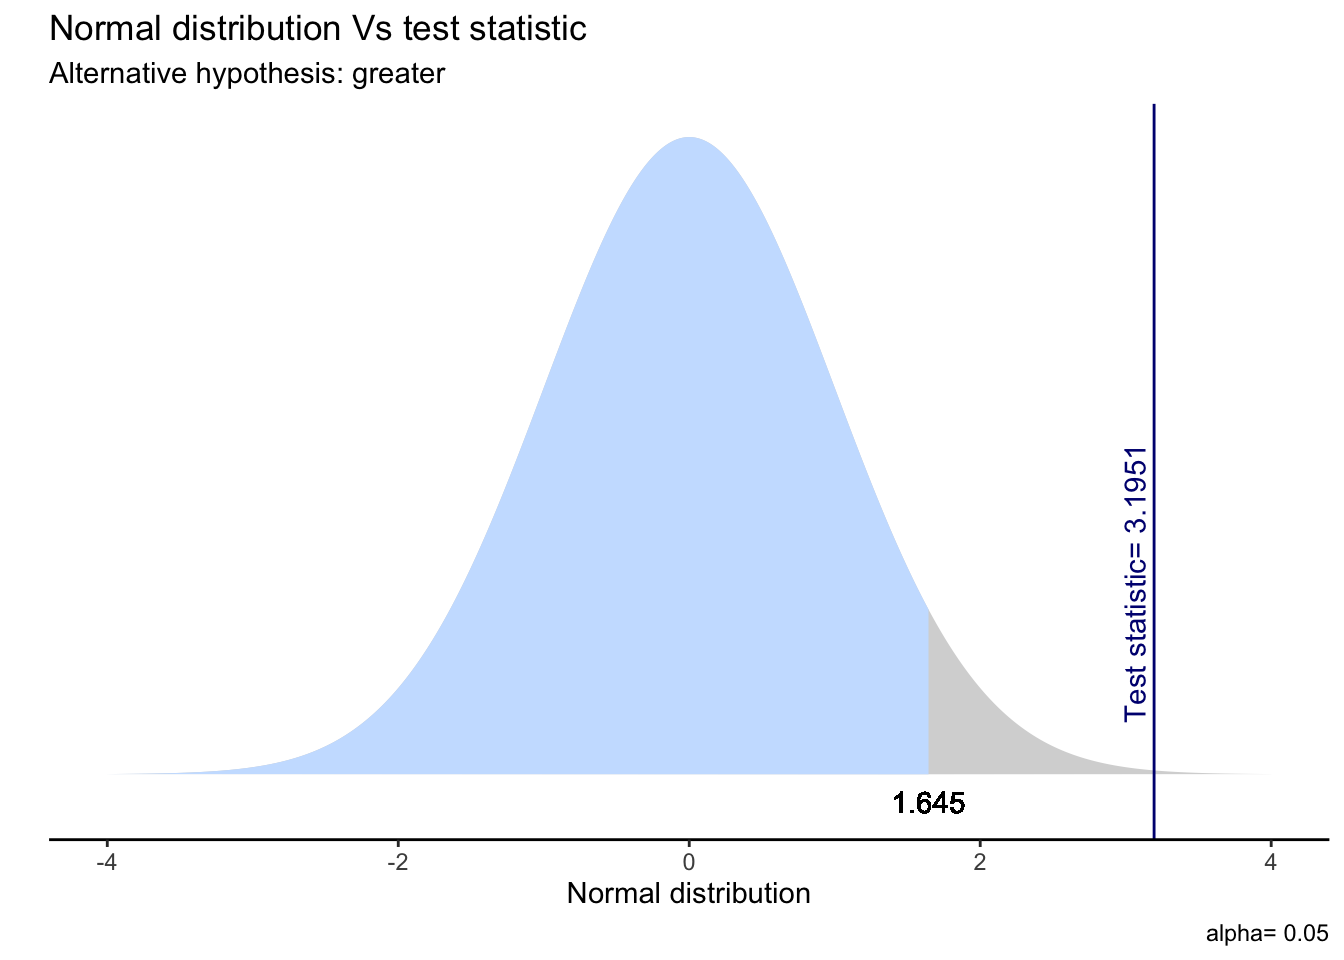
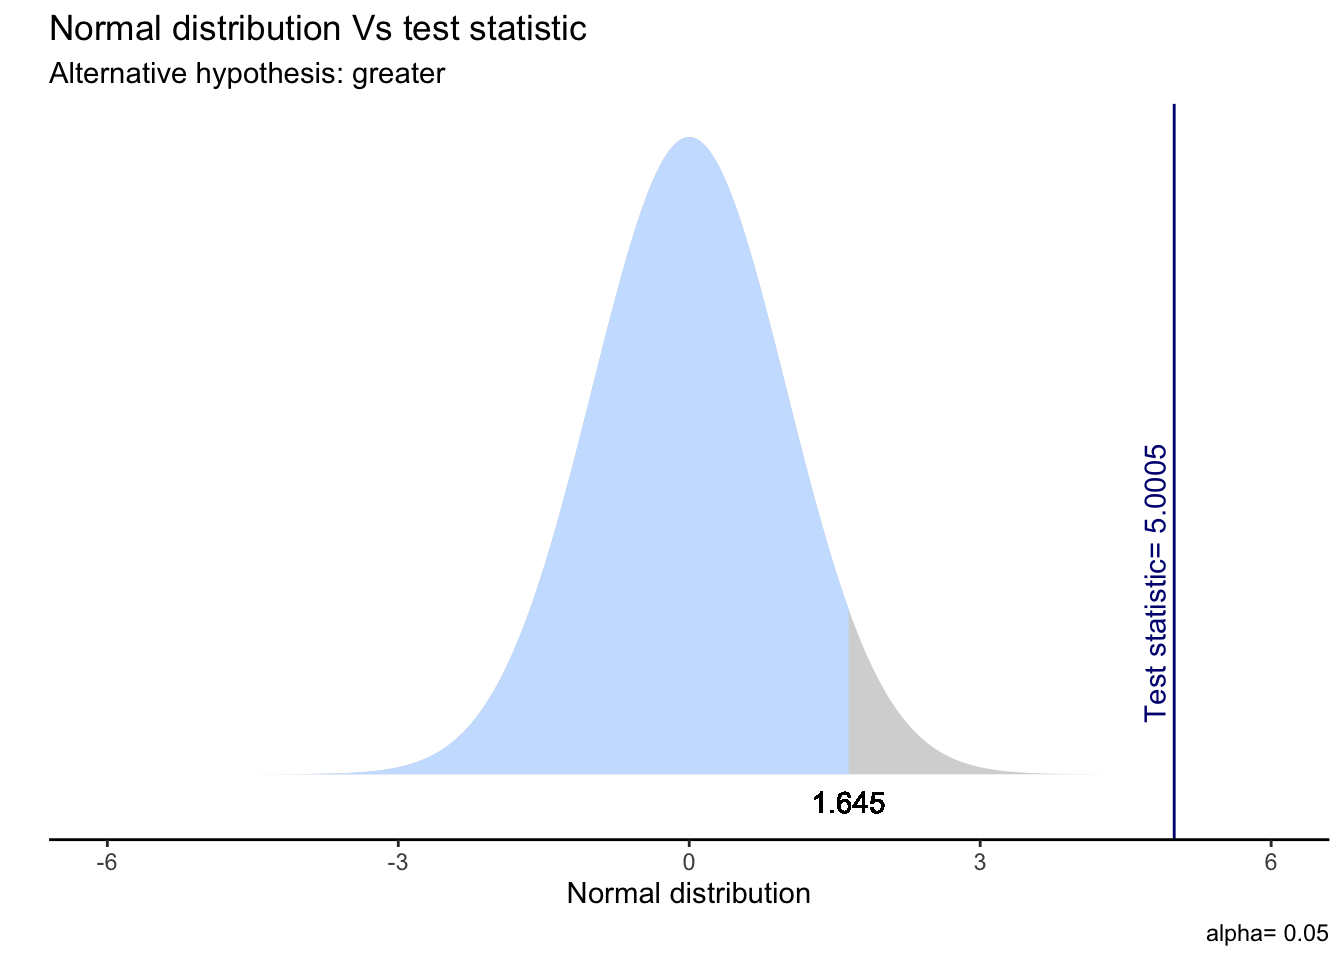
Update practico 2 draft

diff --git a/docs/assignment/02-practico.html b/docs/assignment/02-practico.html
@@ -249,7 +249,7 @@ window.Quarto = {
 <h2 class="anchored" data-anchor-id="cinco-pasos-para-la-inferencia-estadística">Cinco pasos para la inferencia estadística</h2>
 <p><img src="https://correlacional.netlify.app/slides/img/rechazar_meme.png" class="img-fluid"></p>
 <p>En inferencia, las pruebas de hipótesis nos ayudan a determinar si el resultado que obtenemos en nuestra muestra es un efecto real/extensible a la población o un error de muestreo. Aquí recomendamos una lista de cinco pasos lógicos para enfrentarnos a la inferencia estadística:</p>
-<p>En inferencia, las pruebas de hipótesis nos ayudan a determinar si el resultado que obtenemos en nuestra muestra es un efecto real/extensible a la población o un error de muestreo. Aquí recomendamos una lista de cinco pasos lógicos para enfrentarnos a la inferencia estadística:</p>
+<p>En inferencia, las pruebas de hipótesis nos ayudan a determinar si el resultado que obtenemos en nuestra muestra es un efecto real/extensible a la población o un error. Aquí recomendamos una lista de cinco pasos lógicos para enfrentarnos a la inferencia estadística:</p>
 <style>
   table {
     margin-left: auto; /* Ajustamos el margen izquierdo a automático */
@@ -332,6 +332,20 @@ Intrepreta los resultados
 <span id="cb1-8"><a href="#cb1-8" aria-hidden="true" tabindex="-1"></a><span class="fu">options</span>(<span class="at">scipen =</span> <span class="dv">999</span>) <span class="co"># para desactivar notacion cientifica</span></span>
 <span id="cb1-9"><a href="#cb1-9" aria-hidden="true" tabindex="-1"></a><span class="fu">rm</span>(<span class="at">list =</span> <span class="fu">ls</span>()) <span class="co"># para limpiar el entorno de trabajo</span></span></code><button title="Copiar al portapapeles" class="code-copy-button"><i class="bi"></i></button></pre></div>
 </div>
+<div class="callout callout-style-default callout-tip callout-titled">
+<div class="callout-header d-flex align-content-center">
+<div class="callout-icon-container">
+<i class="callout-icon"></i>
+</div>
+<div class="callout-title-container flex-fill">
+Tip
+</div>
+</div>
+<div class="callout-body-container callout-body">
+<p><strong>Los # en el código</strong></p>
+<p>En este código y siguientes aparecen varios #, que son una función de comentarios en R. No son necesarios para que el código funcione, pero son útiles en este caso para poder explicar que función cumple cada sección del código. Todo lo que aparece a la derecha de un # no es leído por el programa.</p>
+</div>
+</div>
 <p>Cargamos los datos directamente desde internet.</p>
 <div class="cell">
 <div class="sourceCode cell-code" id="cb2"><pre class="sourceCode r code-with-copy"><code class="sourceCode r"><span id="cb2-1"><a href="#cb2-1" aria-hidden="true" tabindex="-1"></a><span class="fu">load</span>(<span class="fu">url</span>(<span class="st">"https://github.com/cursos-metodos-facso/datos-ejemplos/raw/main/proc_casen.RData"</span>)) <span class="co">#Cargar base de datos</span></span></code><button title="Copiar al portapapeles" class="code-copy-button"><i class="bi"></i></button></pre></div>
@@ -403,20 +417,6 @@ Prueba de una cola
 <span id="cb7-4"><a href="#cb7-4" aria-hidden="true" tabindex="-1"></a></span>
 <span id="cb7-5"><a href="#cb7-5" aria-hidden="true" tabindex="-1"></a>casen_subset <span class="ot">&lt;-</span> <span class="fu">na.omit</span>(casen_subset) <span class="co"># eliminamos casos perdidos (listwise)</span></span></code><button title="Copiar al portapapeles" class="code-copy-button"><i class="bi"></i></button></pre></div>
 </div>
-<div class="callout callout-style-default callout-tip callout-titled">
-<div class="callout-header d-flex align-content-center">
-<div class="callout-icon-container">
-<i class="callout-icon"></i>
-</div>
-<div class="callout-title-container flex-fill">
-Tip
-</div>
-</div>
-<div class="callout-body-container callout-body">
-<p><strong>Los # en el código</strong></p>
-<p>En este código y siguientes aparecen varios #, que son una función de comentarios en R. No son necesarios para que el código funcione, pero son útiles en este caso para poder explicar que función cumple cada sección del código. Todo lo que aparece a la derecha de un # no es leído por el programa.</p>
-</div>
-</div>
 <p>Generamos tabla para visualizar la distribución de los datos.</p>
 <div class="cell">
 <div class="sourceCode cell-code" id="cb8"><pre class="sourceCode r code-with-copy"><code class="sourceCode r"><span id="cb8-1"><a href="#cb8-1" aria-hidden="true" tabindex="-1"></a>casen_subset <span class="sc">%&gt;%</span> </span>
@@ -438,15 +438,15 @@ Tip
 <tbody>
 <tr class="odd">
 <td style="text-align: right;">1</td>
-<td style="text-align: right;">366</td>
-<td style="text-align: right;">763431.0</td>
-<td style="text-align: right;">904740.0</td>
+<td style="text-align: right;">348</td>
+<td style="text-align: right;">782026.2</td>
+<td style="text-align: right;">828650.1</td>
 </tr>
 <tr class="even">
 <td style="text-align: right;">2</td>
-<td style="text-align: right;">271</td>
-<td style="text-align: right;">582777.1</td>
-<td style="text-align: right;">510153.1</td>
+<td style="text-align: right;">279</td>
+<td style="text-align: right;">518039.5</td>
+<td style="text-align: right;">476502.6</td>
 </tr>
 </tbody>
 </table>
@@ -471,7 +471,7 @@ Tip
 <li><p>Establecer la probabilidad de error <span class="math inline">\(\alpha\)</span> (usualmente 0.05) y obtener valor crítico (teórico) de la prueba correspondiente</p></li>
 <li><p>Cálculo de intervalo de confianza / contraste valores empírico/crítico</p></li>
 </ol>
-<p>Esta secuencia de pasos tiene un sentido pedagógico para poder entender cómo finalmente se llega a interpretar el contraste de hipótesis en el paso 5. Pero en análisis de datos, luego de establecer las hipótesis nos vamos directamente al código que nos permite obtener de una vez toda la información de los pasos 2, 3 y 4.</p>
+<p>Esta secuencia de pasos tiene un sentido pedagógico para poder entender cómo finalmente se llega a interpretar el contraste de hipótesis en el paso 5. Pero en análisis de datos, luego de establecer las hipótesis nos vamos directamente al softwaer que nos permite obtener de una vez toda la información de los pasos 2, 3 y 4.</p>
 <div class="cell">
 <div class="sourceCode cell-code" id="cb9"><pre class="sourceCode r code-with-copy"><code class="sourceCode r"><span id="cb9-1"><a href="#cb9-1" aria-hidden="true" tabindex="-1"></a>test_ej1 <span class="ot">&lt;-</span> <span class="fu">t.test</span>(casen_subset<span class="sc">$</span>ytrabajocor <span class="sc">~</span> casen_subset<span class="sc">$</span>sexo, </span>
 <span id="cb9-2"><a href="#cb9-2" aria-hidden="true" tabindex="-1"></a>                   <span class="at">alternative =</span> <span class="st">"greater"</span>,</span>
@@ -483,13 +483,13 @@ Tip
     Welch Two Sample t-test
 
 data:  casen_subset$ytrabajocor by casen_subset$sexo
-t = 3.1951, df = 596.96, p-value = 0.0007357
+t = 5.0005, df = 571.02, p-value = 0.000000381
 alternative hypothesis: true difference in means between group 1 and group 2 is greater than 0
 95 percent confidence interval:
- 87508.29      Inf
+ 177010.8      Inf
 sample estimates:
 mean in group 1 mean in group 2 
-       763431.0        582777.1 </code></pre>
+       782026.2        518039.5 </code></pre>
 </div>
 </div>
 <p>También podemos visualizarlo en una tabla más amable.</p>
@@ -497,7 +497,7 @@ mean in group 1 mean in group 2
 <div class="sourceCode cell-code" id="cb11"><pre class="sourceCode r code-with-copy"><code class="sourceCode r"><span id="cb11-1"><a href="#cb11-1" aria-hidden="true" tabindex="-1"></a>stats.table <span class="ot">&lt;-</span> <span class="fu">tidy</span>(test_ej1, <span class="at">conf_int =</span> T)</span>
 <span id="cb11-2"><a href="#cb11-2" aria-hidden="true" tabindex="-1"></a><span class="fu">nice_table</span>(stats.table, <span class="at">broom =</span> <span class="st">"t.test"</span>)</span></code><button title="Copiar al portapapeles" class="code-copy-button"><i class="bi"></i></button></pre></div>
 <div class="cell-output-display">
-<div class="tabwid"><style>.cl-0344020c{table-layout:auto;}.cl-03401d5e{font-family:'Times New Roman';font-size:12pt;font-weight:normal;font-style:normal;text-decoration:none;color:rgba(0, 0, 0, 1.00);background-color:transparent;}.cl-03401d72{font-family:'Times New Roman';font-size:12pt;font-weight:normal;font-style:italic;text-decoration:none;color:rgba(0, 0, 0, 1.00);background-color:transparent;}.cl-03401d73{font-family:'Times New Roman';font-size:7.2pt;font-weight:normal;font-style:normal;text-decoration:none;color:rgba(0, 0, 0, 1.00);background-color:transparent;position: relative;top:3.6pt;}.cl-03419d46{margin:0;text-align:center;border-bottom: 0 solid rgba(0, 0, 0, 1.00);border-top: 0 solid rgba(0, 0, 0, 1.00);border-left: 0 solid rgba(0, 0, 0, 1.00);border-right: 0 solid rgba(0, 0, 0, 1.00);padding-bottom:5pt;padding-top:5pt;padding-left:5pt;padding-right:5pt;line-height: 2;background-color:transparent;}.cl-03419d50{margin:0;text-align:left;border-bottom: 0 solid rgba(0, 0, 0, 1.00);border-top: 0 solid rgba(0, 0, 0, 1.00);border-left: 0 solid rgba(0, 0, 0, 1.00);border-right: 0 solid rgba(0, 0, 0, 1.00);padding-bottom:5pt;padding-top:5pt;padding-left:5pt;padding-right:5pt;line-height: 2;background-color:transparent;}.cl-0341a6f6{background-color:transparent;vertical-align: middle;border-bottom: 0.5pt solid rgba(0, 0, 0, 1.00);border-top: 0.5pt solid rgba(0, 0, 0, 1.00);border-left: 0 solid rgba(0, 0, 0, 1.00);border-right: 0 solid rgba(0, 0, 0, 1.00);margin-bottom:0;margin-top:0;margin-left:0;margin-right:0;}.cl-0341a700{background-color:transparent;vertical-align: middle;border-bottom: 0.5pt solid rgba(0, 0, 0, 1.00);border-top: 0 solid rgba(0, 0, 0, 1.00);border-left: 0 solid rgba(0, 0, 0, 1.00);border-right: 0 solid rgba(0, 0, 0, 1.00);margin-bottom:0;margin-top:0;margin-left:0;margin-right:0;}.cl-0341a701{background-color:transparent;vertical-align: middle;border-bottom: 0.5pt solid rgba(0, 0, 0, 1.00);border-top: 0 solid rgba(0, 0, 0, 1.00);border-left: 0 solid rgba(0, 0, 0, 1.00);border-right: 0 solid rgba(0, 0, 0, 1.00);margin-bottom:0;margin-top:0;margin-left:0;margin-right:0;}</style><table data-quarto-disable-processing="true" class="cl-0344020c"><thead><tr style="overflow-wrap:break-word;"><th class="cl-0341a6f6"><p class="cl-03419d46"><span class="cl-03401d5e">Method</span></p></th><th class="cl-0341a6f6"><p class="cl-03419d46"><span class="cl-03401d5e">Alternative</span></p></th><th class="cl-0341a6f6"><p class="cl-03419d46"><span class="cl-03401d5e">Mean 1</span></p></th><th class="cl-0341a6f6"><p class="cl-03419d46"><span class="cl-03401d5e">Mean 2</span></p></th><th class="cl-0341a6f6"><p class="cl-03419d46"><span class="cl-03401d72">M</span><span class="cl-03401d73">1</span><span class="cl-03401d5e"> - </span><span class="cl-03401d72">M</span><span class="cl-03401d73">2</span></p></th><th class="cl-0341a6f6"><p class="cl-03419d46"><span class="cl-03401d72">t</span></p></th><th class="cl-0341a6f6"><p class="cl-03419d46"><span class="cl-03401d72">df</span></p></th><th class="cl-0341a6f6"><p class="cl-03419d46"><span class="cl-03401d72">p</span></p></th><th class="cl-0341a6f6"><p class="cl-03419d46"><span class="cl-03401d5e">95% CI</span></p></th></tr></thead><tbody><tr style="overflow-wrap:break-word;"><td class="cl-0341a700"><p class="cl-03419d50"><span class="cl-03401d5e">Welch Two Sample t-test</span></p></td><td class="cl-0341a701"><p class="cl-03419d46"><span class="cl-03401d5e">greater</span></p></td><td class="cl-0341a701"><p class="cl-03419d46"><span class="cl-03401d5e">763,431.04</span></p></td><td class="cl-0341a701"><p class="cl-03419d46"><span class="cl-03401d5e">582,777.15</span></p></td><td class="cl-0341a701"><p class="cl-03419d46"><span class="cl-03401d5e">180,653.89</span></p></td><td class="cl-0341a701"><p class="cl-03419d46"><span class="cl-03401d5e">3.20</span></p></td><td class="cl-0341a701"><p class="cl-03419d46"><span class="cl-03401d5e">596.96</span></p></td><td class="cl-0341a701"><p class="cl-03419d46"><span class="cl-03401d5e">.001***</span></p></td><td class="cl-0341a701"><p class="cl-03419d46"><span class="cl-03401d5e">[87508.29, Inf]</span></p></td></tr></tbody></table></div>
+<div class="tabwid"><style>.cl-c7e25e5a{table-layout:auto;}.cl-c7dd9b5e{font-family:'Times New Roman';font-size:12pt;font-weight:normal;font-style:normal;text-decoration:none;color:rgba(0, 0, 0, 1.00);background-color:transparent;}.cl-c7dd9b72{font-family:'Times New Roman';font-size:12pt;font-weight:normal;font-style:italic;text-decoration:none;color:rgba(0, 0, 0, 1.00);background-color:transparent;}.cl-c7dd9b73{font-family:'Times New Roman';font-size:7.2pt;font-weight:normal;font-style:normal;text-decoration:none;color:rgba(0, 0, 0, 1.00);background-color:transparent;position: relative;top:3.6pt;}.cl-c7df4418{margin:0;text-align:center;border-bottom: 0 solid rgba(0, 0, 0, 1.00);border-top: 0 solid rgba(0, 0, 0, 1.00);border-left: 0 solid rgba(0, 0, 0, 1.00);border-right: 0 solid rgba(0, 0, 0, 1.00);padding-bottom:5pt;padding-top:5pt;padding-left:5pt;padding-right:5pt;line-height: 2;background-color:transparent;}.cl-c7df4422{margin:0;text-align:left;border-bottom: 0 solid rgba(0, 0, 0, 1.00);border-top: 0 solid rgba(0, 0, 0, 1.00);border-left: 0 solid rgba(0, 0, 0, 1.00);border-right: 0 solid rgba(0, 0, 0, 1.00);padding-bottom:5pt;padding-top:5pt;padding-left:5pt;padding-right:5pt;line-height: 2;background-color:transparent;}.cl-c7df4e40{background-color:transparent;vertical-align: middle;border-bottom: 0.5pt solid rgba(0, 0, 0, 1.00);border-top: 0.5pt solid rgba(0, 0, 0, 1.00);border-left: 0 solid rgba(0, 0, 0, 1.00);border-right: 0 solid rgba(0, 0, 0, 1.00);margin-bottom:0;margin-top:0;margin-left:0;margin-right:0;}.cl-c7df4e41{background-color:transparent;vertical-align: middle;border-bottom: 0.5pt solid rgba(0, 0, 0, 1.00);border-top: 0 solid rgba(0, 0, 0, 1.00);border-left: 0 solid rgba(0, 0, 0, 1.00);border-right: 0 solid rgba(0, 0, 0, 1.00);margin-bottom:0;margin-top:0;margin-left:0;margin-right:0;}.cl-c7df4e42{background-color:transparent;vertical-align: middle;border-bottom: 0.5pt solid rgba(0, 0, 0, 1.00);border-top: 0 solid rgba(0, 0, 0, 1.00);border-left: 0 solid rgba(0, 0, 0, 1.00);border-right: 0 solid rgba(0, 0, 0, 1.00);margin-bottom:0;margin-top:0;margin-left:0;margin-right:0;}</style><table data-quarto-disable-processing="true" class="cl-c7e25e5a"><thead><tr style="overflow-wrap:break-word;"><th class="cl-c7df4e40"><p class="cl-c7df4418"><span class="cl-c7dd9b5e">Method</span></p></th><th class="cl-c7df4e40"><p class="cl-c7df4418"><span class="cl-c7dd9b5e">Alternative</span></p></th><th class="cl-c7df4e40"><p class="cl-c7df4418"><span class="cl-c7dd9b5e">Mean 1</span></p></th><th class="cl-c7df4e40"><p class="cl-c7df4418"><span class="cl-c7dd9b5e">Mean 2</span></p></th><th class="cl-c7df4e40"><p class="cl-c7df4418"><span class="cl-c7dd9b72">M</span><span class="cl-c7dd9b73">1</span><span class="cl-c7dd9b5e"> - </span><span class="cl-c7dd9b72">M</span><span class="cl-c7dd9b73">2</span></p></th><th class="cl-c7df4e40"><p class="cl-c7df4418"><span class="cl-c7dd9b72">t</span></p></th><th class="cl-c7df4e40"><p class="cl-c7df4418"><span class="cl-c7dd9b72">df</span></p></th><th class="cl-c7df4e40"><p class="cl-c7df4418"><span class="cl-c7dd9b72">p</span></p></th><th class="cl-c7df4e40"><p class="cl-c7df4418"><span class="cl-c7dd9b5e">95% CI</span></p></th></tr></thead><tbody><tr style="overflow-wrap:break-word;"><td class="cl-c7df4e41"><p class="cl-c7df4422"><span class="cl-c7dd9b5e">Welch Two Sample t-test</span></p></td><td class="cl-c7df4e42"><p class="cl-c7df4418"><span class="cl-c7dd9b5e">greater</span></p></td><td class="cl-c7df4e42"><p class="cl-c7df4418"><span class="cl-c7dd9b5e">782,026.23</span></p></td><td class="cl-c7df4e42"><p class="cl-c7df4418"><span class="cl-c7dd9b5e">518,039.47</span></p></td><td class="cl-c7df4e42"><p class="cl-c7df4418"><span class="cl-c7dd9b5e">263,986.76</span></p></td><td class="cl-c7df4e42"><p class="cl-c7df4418"><span class="cl-c7dd9b5e">5.00</span></p></td><td class="cl-c7df4e42"><p class="cl-c7df4418"><span class="cl-c7dd9b5e">571.02</span></p></td><td class="cl-c7df4e42"><p class="cl-c7df4418"><span class="cl-c7dd9b5e">&lt; .001***</span></p></td><td class="cl-c7df4e42"><p class="cl-c7df4418"><span class="cl-c7dd9b5e">[177010.78, Inf]</span></p></td></tr></tbody></table></div>
 </div>
 </div>
 <p>Visualicemos la distribución de esta prueba y su zona de rechazo.</p>
@@ -512,8 +512,7 @@ mean in group 1 mean in group 2
 </div>
 </div>
 <p><strong>5. Interpretación</strong></p>
-<p>La prueba T que evalúa la diferencia de medias entre el salario y el sexo sugiere que el efecto es positivo y estadísticamente signficativo (diferencia = 32567.11, t(566.69) = 2.05, p &lt; .05). Por tanto, con un 95% de confianza, rechazamos la <span class="math inline">\(H_{0}\)</span> ya que existe evidencia a favor de nuestra <span class="math inline">\(H_{A}\)</span> respecto a que el salario de los hombres es mayor al salario de las mujeres.</p>
-<p>Además, podemos calcular un intervalo de confianza que acompaña nuestra estimación. En este caso, el IC del 95% es (59.670, Inf), donde “Inf” representa infinito. Esto significa que podemos estar 95% seguros de que <em>la diferencia real entre las medias está por encima de 59.670</em>. En otras palabras, con alta confianza, podemos afirmar que la media del “grupo 1” es significativamente mayor que la del “grupo 2”.</p>
+<p>La prueba T que evalúa la diferencia de medias entre el salario y el sexo sugiere que el efecto es positivo y estadísticamente signficativo (diferencia = 32567.11, t(566.69) = 2.05, p &lt; .05). El valor <span class="math inline">\(p\)</span> indica que la probabilidad de observar una diferencia de esta magnitud, o mayor, bajo la suposición de <span class="math inline">\(H_{0}\)</span> es menor al 5%. Por tanto, con un 95% de confianza, rechazamos la <span class="math inline">\(H_{0}\)</span> ya que existe evidencia a favor de nuestra <span class="math inline">\(H_{A}\)</span> respecto a que el salario de los hombres es mayor al salario de las mujeres.</p>
 </section>
 <section id="ejercicio-2" class="level1">
 <h1>Ejercicio 2</h1>
@@ -545,15 +544,15 @@ mean in group 1 mean in group 2
 <tbody>
 <tr class="odd">
 <td style="text-align: right;">0</td>
-<td style="text-align: right;">357</td>
-<td style="text-align: right;">711933.2</td>
-<td style="text-align: right;">723931.6</td>
+<td style="text-align: right;">344</td>
+<td style="text-align: right;">712056.3</td>
+<td style="text-align: right;">663608.6</td>
 </tr>
 <tr class="even">
 <td style="text-align: right;">1</td>
-<td style="text-align: right;">1102</td>
-<td style="text-align: right;">595194.5</td>
-<td style="text-align: right;">781724.9</td>
+<td style="text-align: right;">1105</td>
+<td style="text-align: right;">575471.2</td>
+<td style="text-align: right;">586987.6</td>
 </tr>
 </tbody>
 </table>
@@ -566,7 +565,6 @@ mean in group 1 mean in group 2
 <p>Resuelve con trabajo en software.</p>
 <p><strong>5. Interpretación</strong></p>
 <p>La prueba T que evalúa la diferencia de medias…</p>
-<p>Además, el IC…</p>
 </section>
 <section id="ejercicio-3" class="level1">
 <h1>Ejercicio 3</h1>
